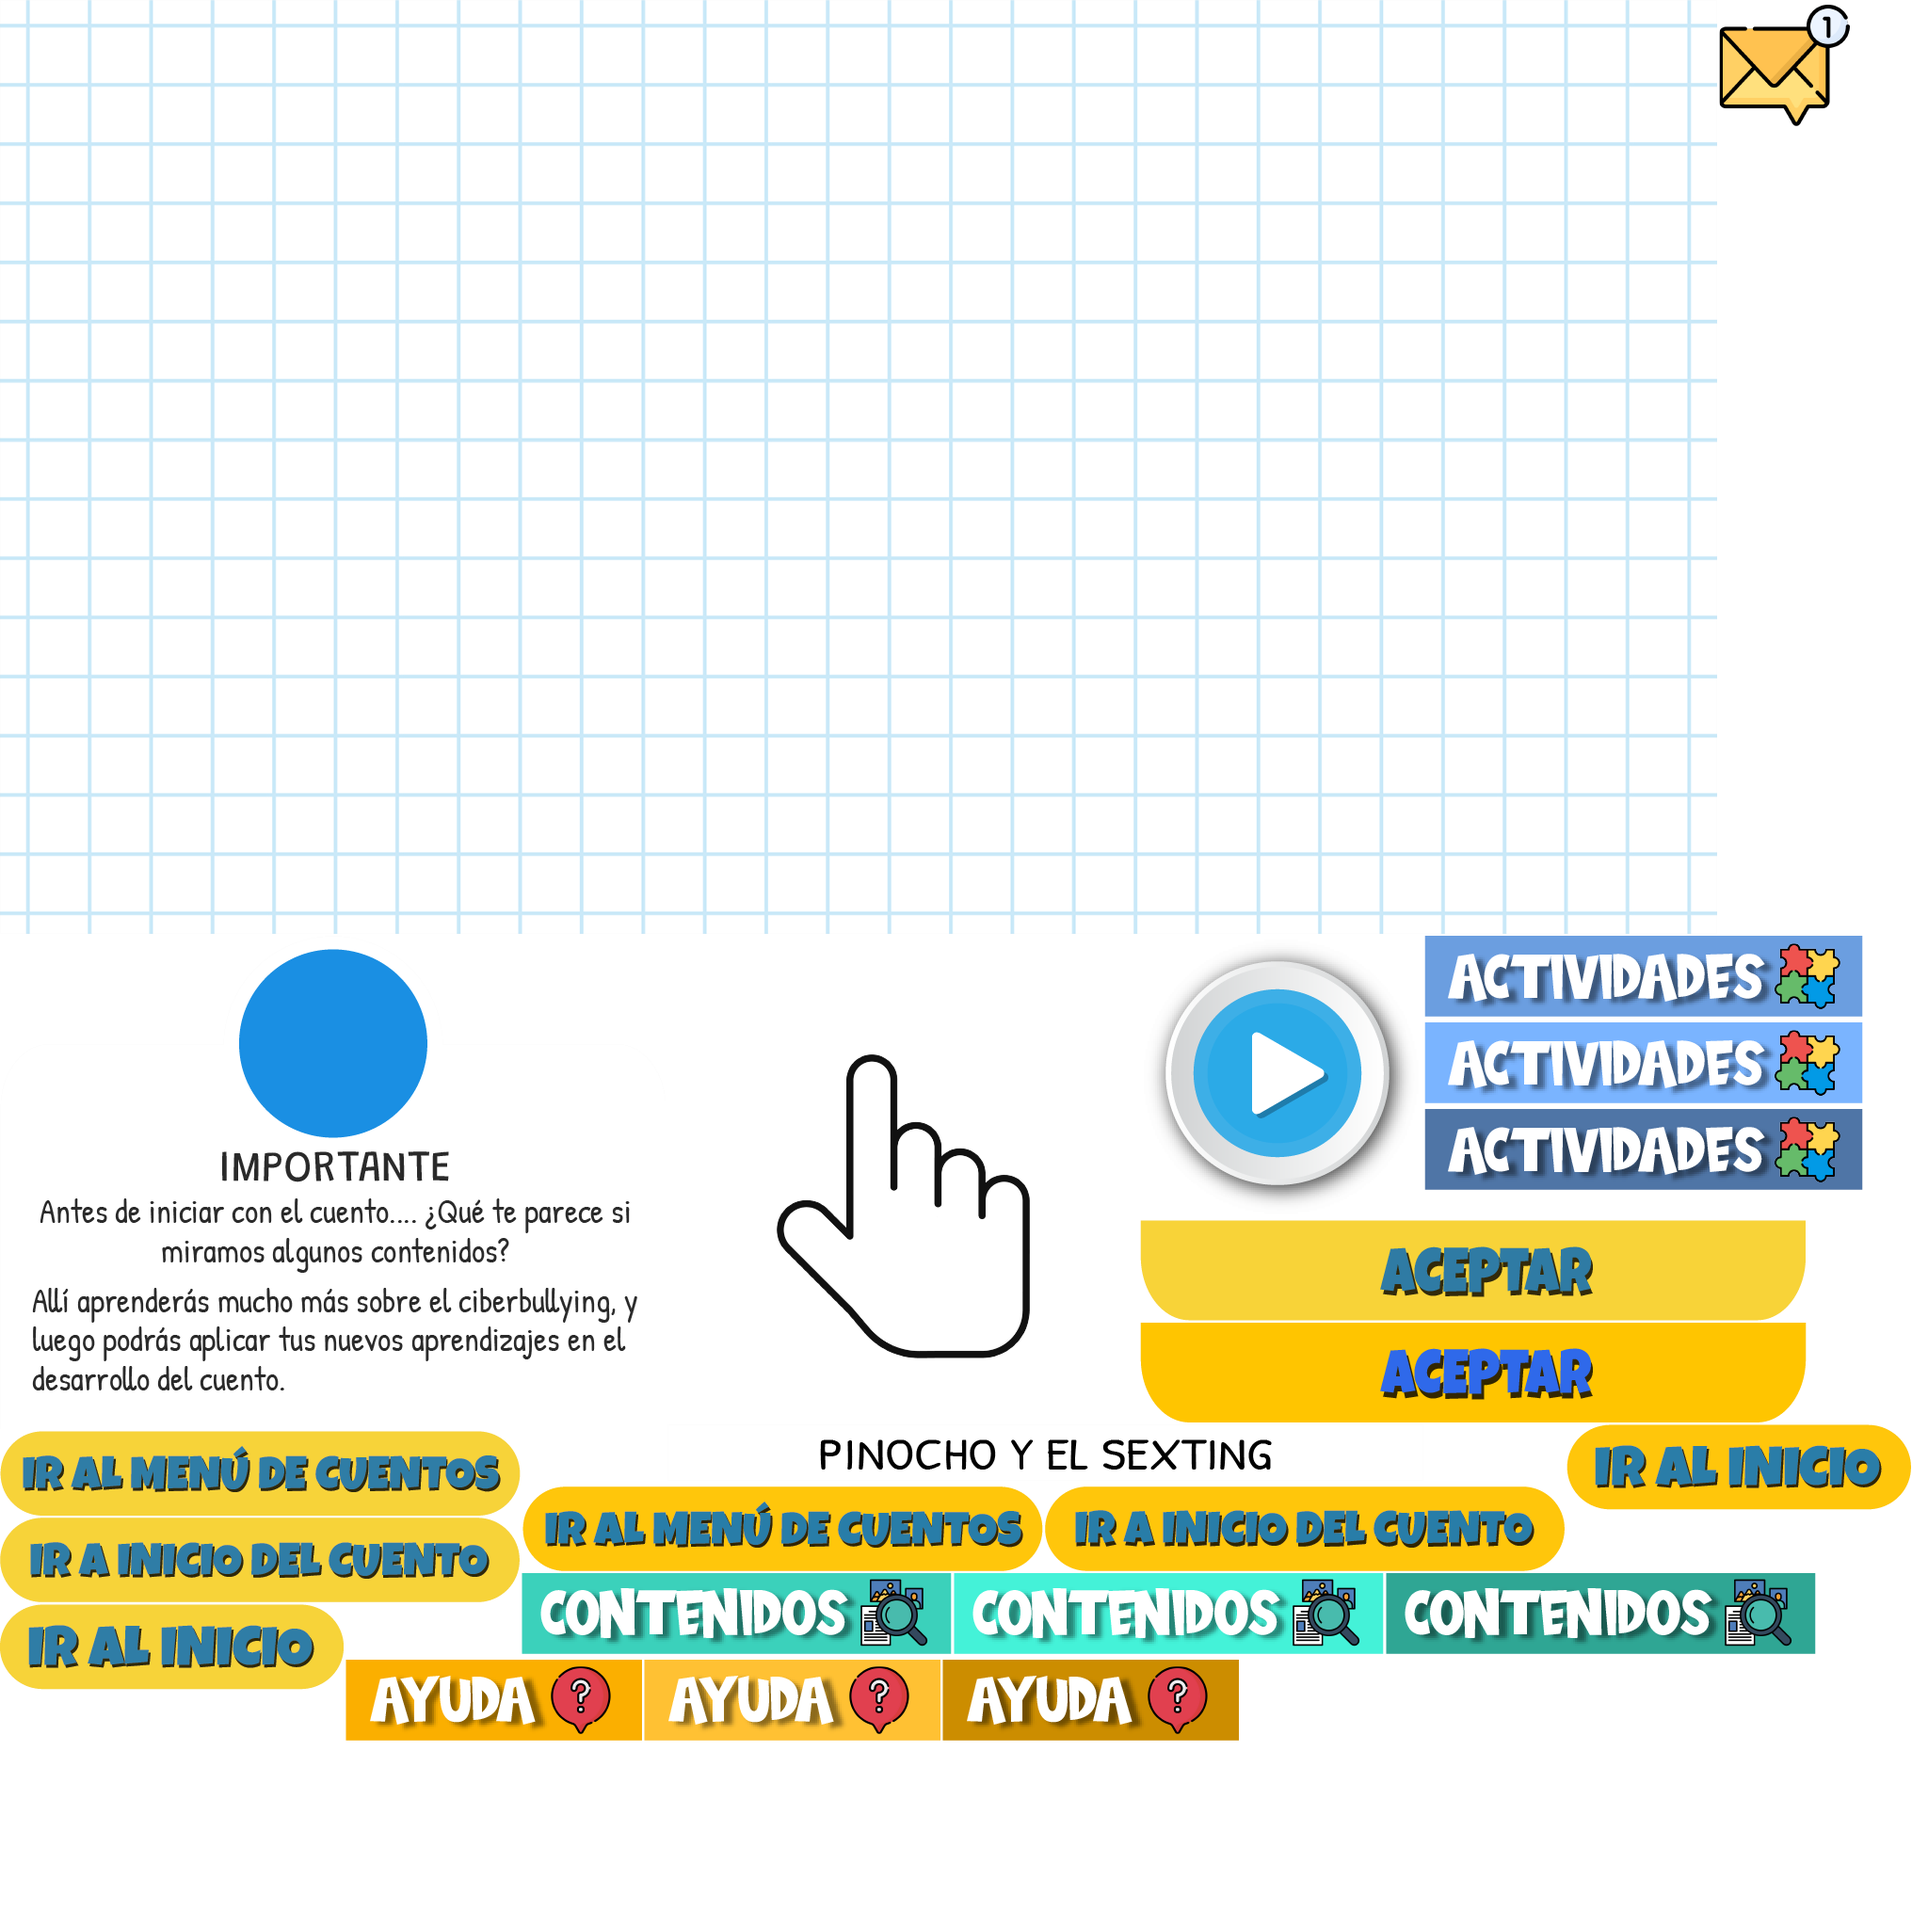
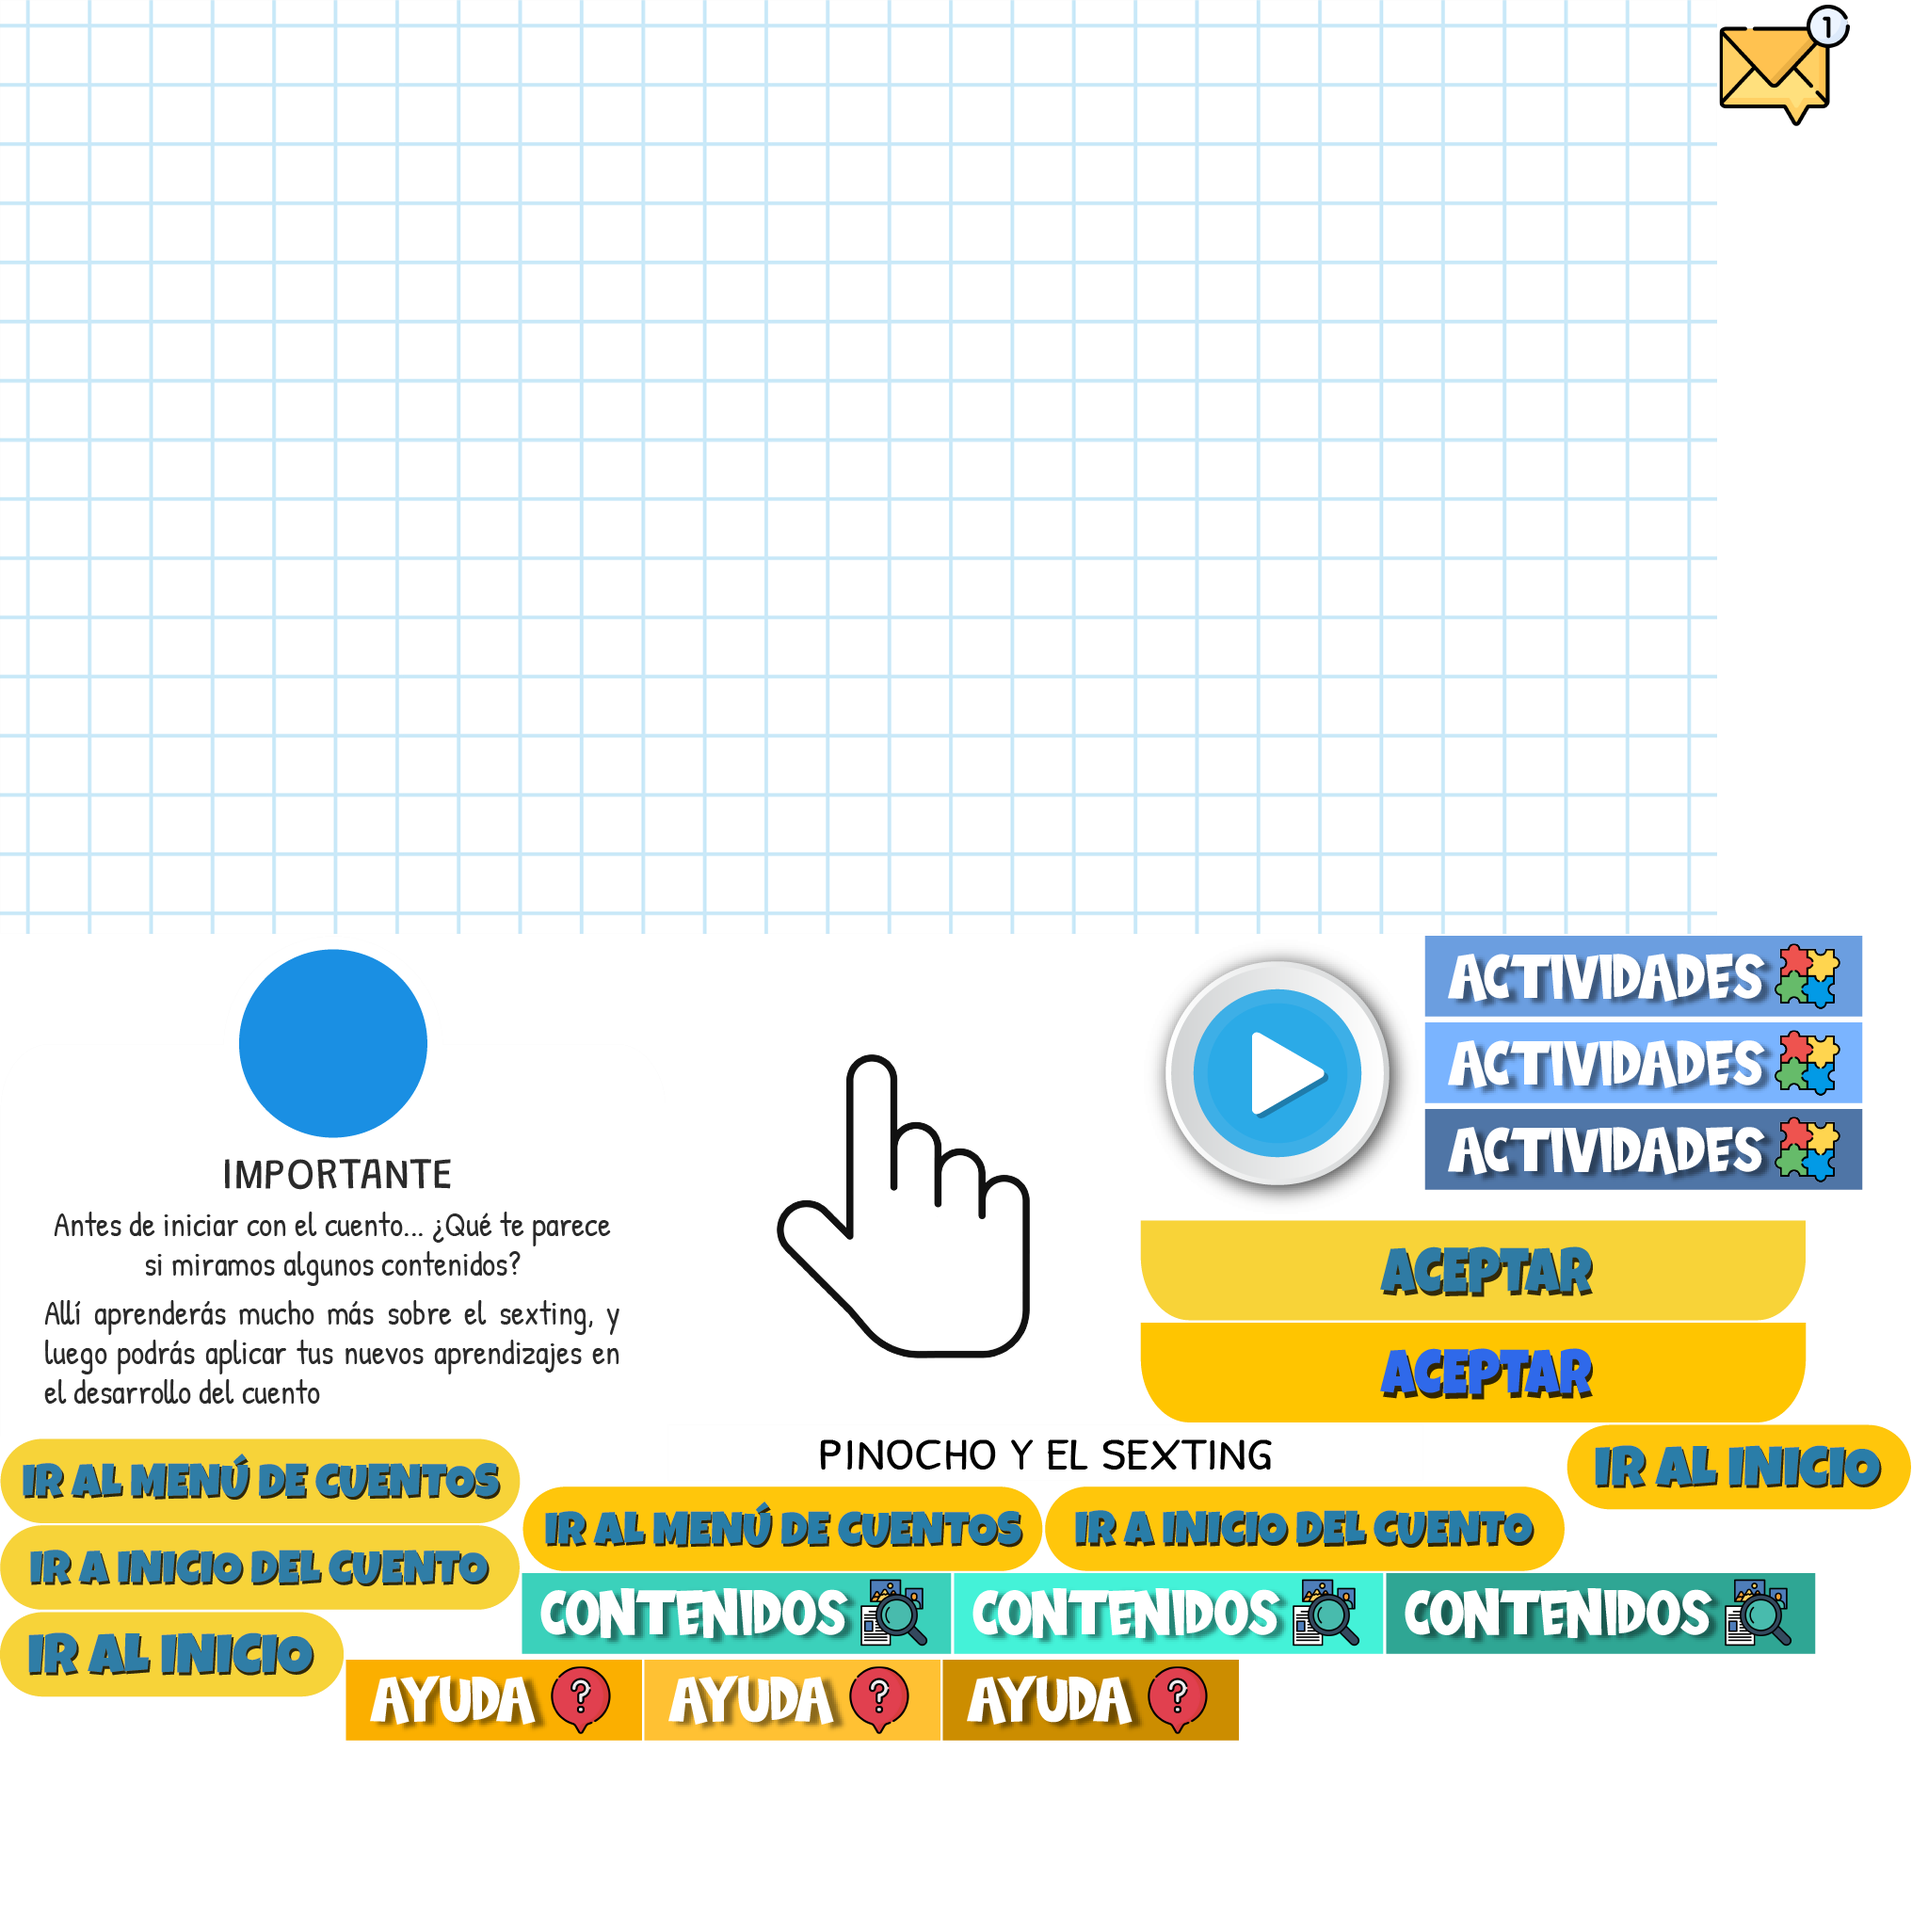
all

Changed region(s): [[0.0, 0.5938, 0.3438, 0.9062]]

diff --git a/Pinocho_y_el_sexting/index.js b/Pinocho_y_el_sexting/index.js
@@ -3,7 +3,7 @@
 var p; // shortcut to reference prototypes
 var lib={};var ss={};var img={};
 lib.ssMetadata = [
-		{name:"index_atlas_1", frames: [[1513,994,466,90],[367,1763,315,90],[554,1671,457,90],[1513,1086,466,90],[684,1763,315,90],[1013,1671,457,90],[1513,1178,466,90],[1001,1763,315,90],[1472,1671,457,90],[1211,1405,708,106],[1211,1296,707,107],[1211,994,300,300],[1110,1579,552,90],[0,1704,365,91],[0,1612,552,90],[1664,1513,366,91],[0,1520,553,90],[555,1579,553,90],[0,0,1824,992],[1826,0,140,139],[709,994,500,500],[0,994,707,524],[709,1513,803,64]]}
+		{name:"index_atlas_1", frames: [[1513,994,466,90],[367,1763,315,90],[554,1671,457,90],[1513,1086,466,90],[684,1763,315,90],[1013,1671,457,90],[1513,1178,466,90],[1001,1763,315,90],[1472,1671,457,90],[1211,1405,708,106],[1211,1296,707,107],[1211,994,300,300],[1110,1579,552,90],[0,1712,365,91],[0,1620,552,90],[1664,1513,366,91],[0,1528,553,90],[555,1579,553,90],[0,0,1824,992],[1826,0,140,139],[709,994,500,500],[709,1513,803,64],[0,994,707,532]]}
 ];
 
 
@@ -204,14 +204,14 @@ p.nominalBounds = new cjs.Rectangle(0,0,2377,1137);
 
 
 
-(lib.Mensaje = function() {
+(lib.NombreCuento = function() {
 	this.initialize(ss["index_atlas_1"]);
 	this.gotoAndStop(21);
 }).prototype = p = new cjs.Sprite();
 
 
 
-(lib.NombreCuento = function() {
+(lib.Notificacion = function() {
 	this.initialize(ss["index_atlas_1"]);
 	this.gotoAndStop(22);
 }).prototype = p = new cjs.Sprite();
@@ -597,7 +597,7 @@ if (reversed == null) { reversed = false; }
 	this.button_popup.setTransform(0,135);
 	new cjs.ButtonHelper(this.button_popup, 0, 1, 2);
 
-	this.instance_1 = new lib.Mensaje();
+	this.instance_1 = new lib.Notificacion();
 	this.instance_1.setTransform(-176.75,-161.75,0.5,0.5);
 
 	this.timeline.addTween(cjs.Tween.get({}).to({state:[{t:this.instance_1},{t:this.button_popup},{t:this.instance}]}).wait(1));
@@ -956,15 +956,15 @@ lib.properties = {
 	color: "#235594",
 	opacity: 0.00,
 	manifest: [
-		{src:"images/bannernegro1.png?1678891822591", id:"bannernegro1"},
-		{src:"images/barraseguredes.png?1678891822591", id:"barraseguredes"},
-		{src:"images/fondo11.png?1678891822591", id:"fondo11"},
-		{src:"images/fondoMorado.png?1678891822591", id:"fondoMorado"},
-		{src:"images/FondoOscuro.png?1678891822591", id:"FondoOscuro"},
-		{src:"images/index_atlas_1.png?1678891822517", id:"index_atlas_1"},
-		{src:"sounds/sound2.mp3?1678891822591", id:"sound2"},
-		{src:"sounds/SoundPlay.mp3?1678891822591", id:"SoundPlay"},
-		{src:"sounds/sound1.mp3?1678891822591", id:"sound1"}
+		{src:"images/bannernegro1.png?1679279090046", id:"bannernegro1"},
+		{src:"images/barraseguredes.png?1679279090046", id:"barraseguredes"},
+		{src:"images/fondo11.png?1679279090046", id:"fondo11"},
+		{src:"images/fondoMorado.png?1679279090046", id:"fondoMorado"},
+		{src:"images/FondoOscuro.png?1679279090046", id:"FondoOscuro"},
+		{src:"images/index_atlas_1.png?1679279089967", id:"index_atlas_1"},
+		{src:"sounds/sound2.mp3?1679279090046", id:"sound2"},
+		{src:"sounds/SoundPlay.mp3?1679279090046", id:"SoundPlay"},
+		{src:"sounds/sound1.mp3?1679279090046", id:"sound1"}
 	],
 	preloads: []
 };

diff --git a/Pinocho_y_el_sexting/index.html b/Pinocho_y_el_sexting/index.html
@@ -22,7 +22,7 @@
   }
 </style>
 <script src="libs/1.0.0/createjs.min.js"></script>
-<script src="index.js?1678891822633"></script>
+<script src="index.js?1679279090121"></script>
 <script>
 var canvas, stage, exportRoot, anim_container, dom_overlay_container, fnStartAnimation;
 function init() {
